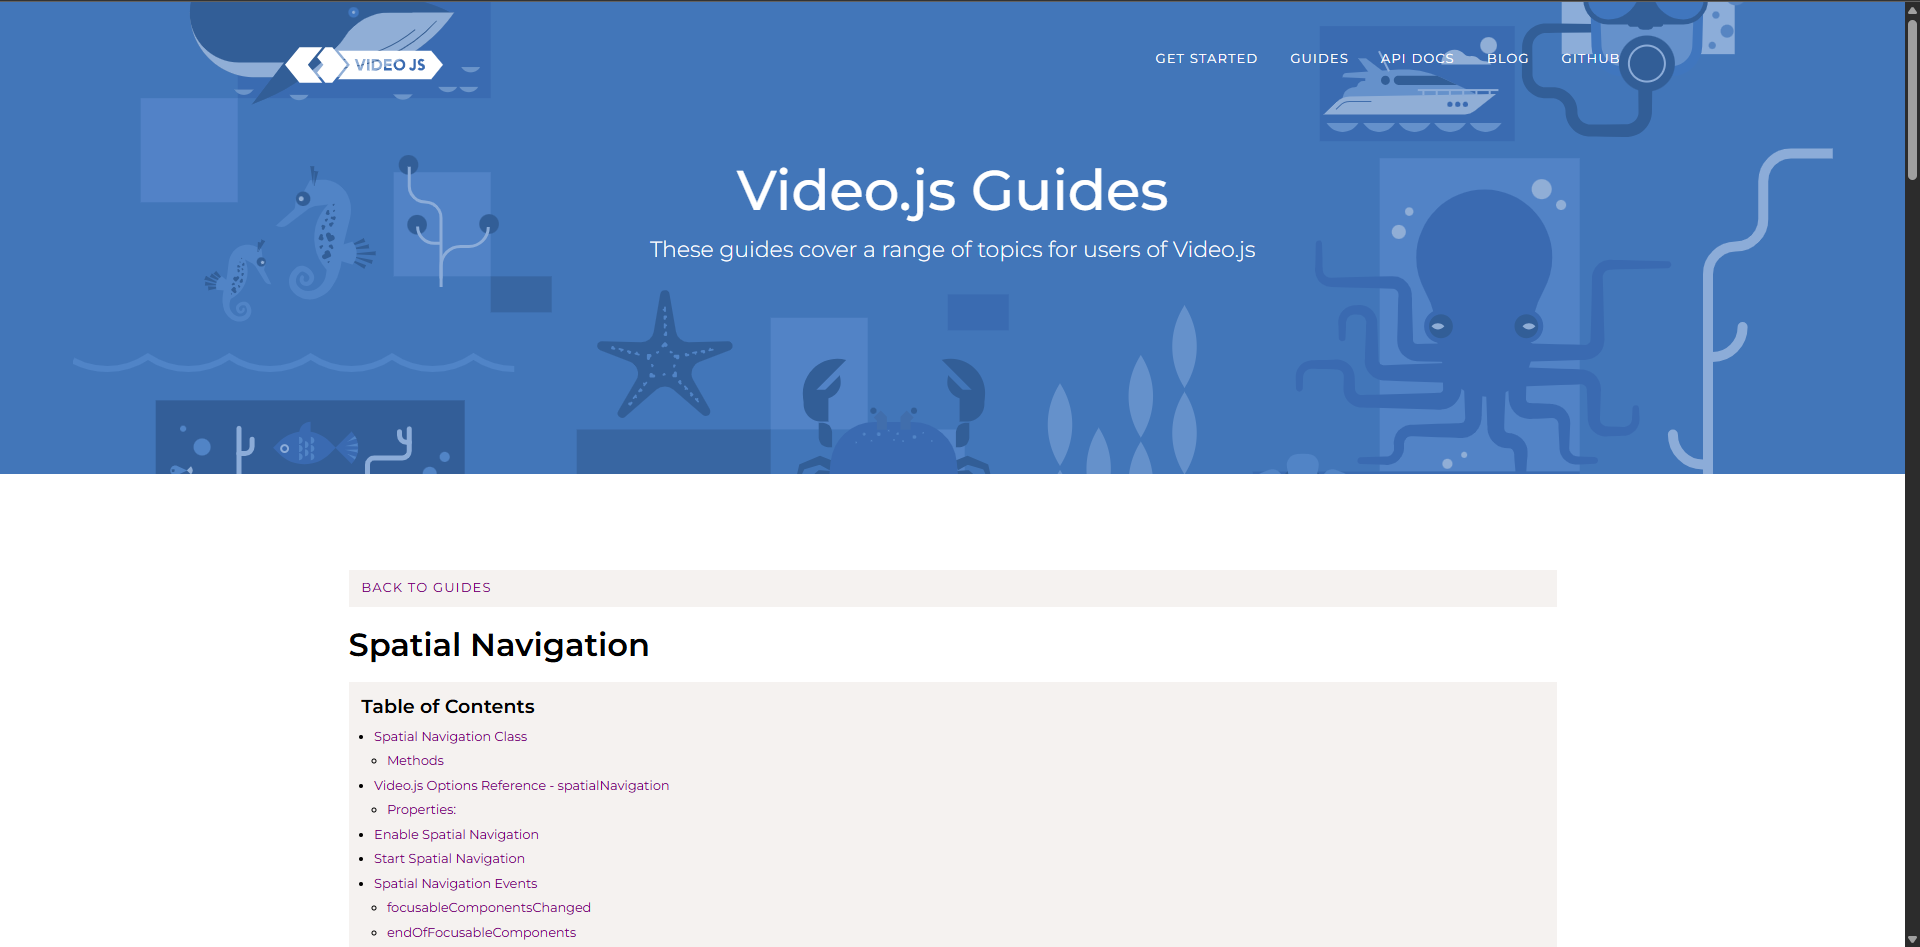
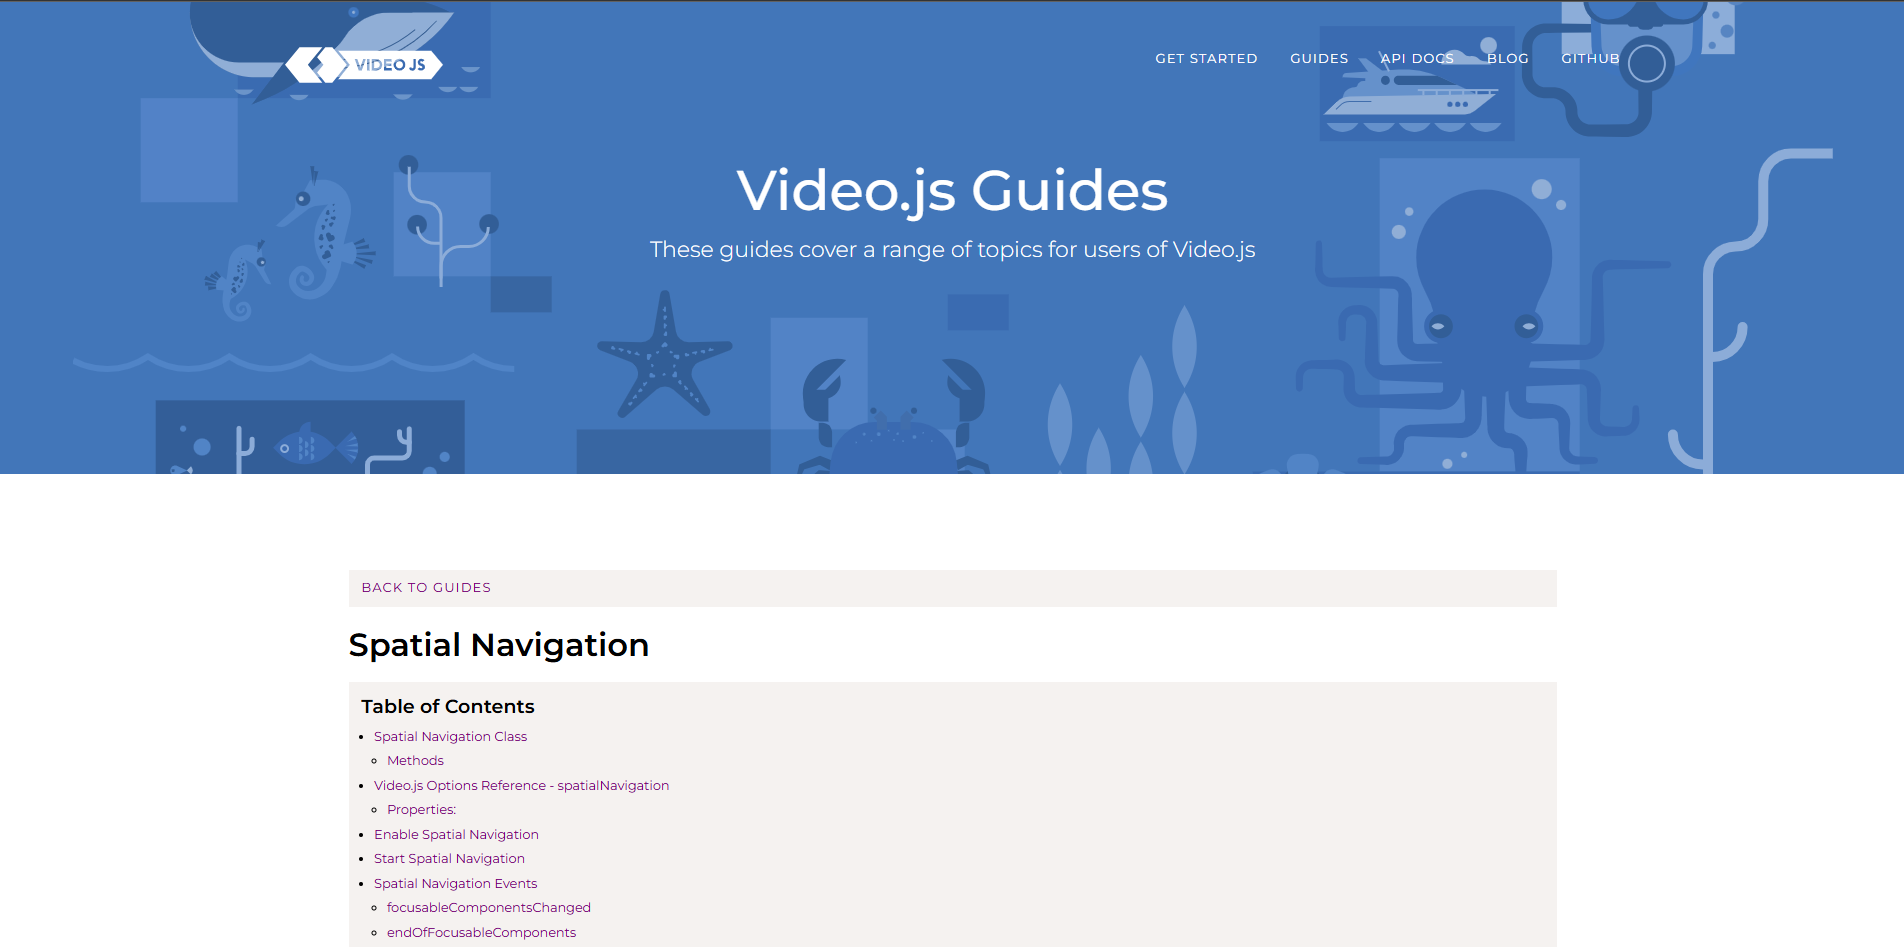
feat: add styles to image in badge component

diff --git a/src/components/Content/Projects/Badge.tsx b/src/components/Content/Projects/Badge.tsx
@@ -16,15 +16,6 @@ export default function Badge({ project }: { project: project }) {
         <p className={styles.period}>{project.title}</p>
 
         <div className={styles.projectBody}>
-          <h3 className={styles.projectTitle}>
-            {project.description}
-            <span className={styles.projectDot}>-</span>
-            <span
-              className={styles.companyLink}
-            >
-              {project.image}
-            </span>
-          </h3>
 
           <p className={styles.paragraph}>
             {project.description}
@@ -35,8 +26,14 @@ export default function Badge({ project }: { project: project }) {
               <li key={tech}>{tech}</li>
             ))}
           </ul>
-
-          <Image src={`/project-images/${project.image}`} alt={project.title} width={500} height={300} />
+          <div className={styles.mask}>
+            <Image
+              src={`/project-images/${project.image}`}
+              alt={project.title}
+              width={500} height={300}
+              className={styles.projectImage}
+            />
+          </div>
         </div>
       </article>
     </a>

diff --git a/src/components/Content/Projects/Badge.module.css b/src/components/Content/Projects/Badge.module.css
@@ -1,0 +1,18 @@
+.projectImage {
+  height: auto;
+  margin-top: 0 auto;
+  object-fit: cover;
+}
+
+.mask {
+  position: relative;
+  overflow: hidden;
+  border-radius: 4px;
+  margin-top: 1rem;
+  width: 140px;
+  height: 80px;
+  aspect-ratio: 1 / 1;
+  display: flex;
+  justify-content: center;
+  border: 1px solid #ccc;
+}

diff --git a/src/components/Content/Projects/ProjectsData.tsx b/src/components/Content/Projects/ProjectsData.tsx
@@ -2,9 +2,9 @@ export const projects = [
   {
     title: "Spatial Navigation",
     description:
-      "A personal landing page built with React, TypeScript, and CSS Modules. It showcases my skills, experience, and projects.",
-    technologies: ["React", "TypeScript", "CSS Modules"],
-    website: "https://carlohernandez.dev/",
+      "Spatial Navigation in Video.js enhances user experience and accessibility on smart TV devices. This functionality enables seamless navigation through interactive elements within the player using remote control arrow keys.",
+    technologies: ["Javascript", "Typescript"],
+    website: "https://legacy.videojs.org/guides/spatial-navigation/",
     image: "spatial-navigation.png"
   }
 ];